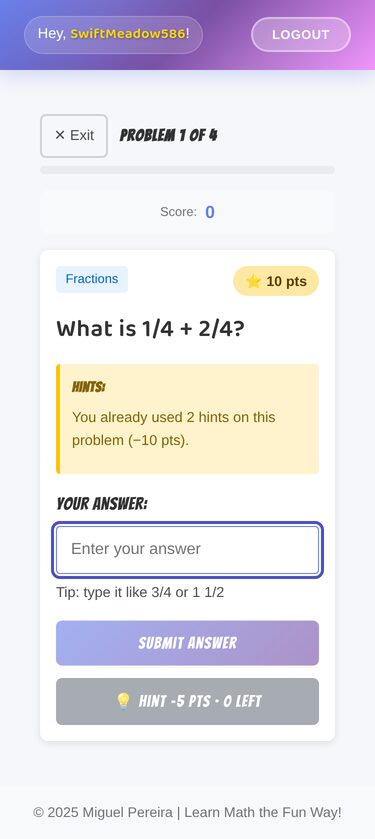
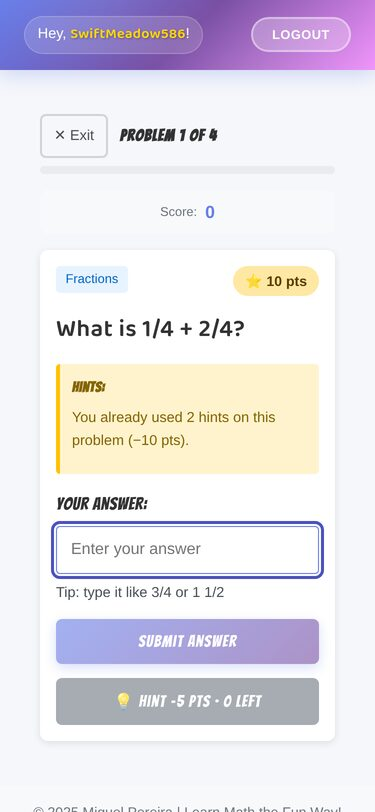
docs(game-ui): record Verify gate results and refreshed render evidence

diff --git a/docs/game-ui-improvements/handoff.md b/docs/game-ui-improvements/handoff.md
@@ -13,27 +13,27 @@ Branch `feat/game-ui-improvements`, Plane NINJA-14. Not deployed yet.
 
 ## Verification
 
-Backend `cd backend && npm test`: 97/97 (88 before). Frontend `cd frontend && npm test`: 76/76 (34 before), run 3 times with no flakes. `tsc --noEmit`, `vue-tsc --noEmit` and both production builds are clean. New tests were run red against the old code: grader 5 failing, HomeView 2/2 failing, style rules 2/5 failing.
+Backend `cd backend && npm test`: 99/99 (88 before). Frontend `cd frontend && npm test`: 77/77 (34 before), run 3 times with no flakes. `tsc --noEmit`, `vue-tsc --noEmit` and both production builds are clean. New tests were run red against the old code: grader 5 failing, HomeView 2/2 failing, style rules 2/5 failing.
 
-**Headless render** of the real app (Vite dev server, headless Chrome via `playwright-core@1.56.1`, at 375 px with touch and at 1280 px). Only the network was faked: Cognito tokens were seeded in localStorage and `/api` calls were answered by the harness. Result: **57/57 checks, 3 consecutive runs**. The harness is in `render-harness.mjs` and the screenshots are in `screenshots/`.
+**Headless render** of the real app (Vite dev server, headless Chrome via `playwright-core@1.56.1`, at 375 px with touch and at 1280 px). Only the network was faked: Cognito tokens were seeded in localStorage and `/api` calls were answered by the harness. Result: **65/65 checks, 3 consecutive runs**. The harness is in `render-harness.mjs` and the screenshots are in `screenshots/`.
 
 - [x] AC1: `GameView.test` "asks for the full keyboard"; render: `inputmode=text` on phone and desktop.
 - [x] AC2: `gameFeedback.test` formatTip; `GameView.test`. Render: the Fractions tip on problem 1, and the text tip on problem 4.
-- [x] AC3: `answerMatcher.test` "decorated numeric answers" (8 cases including rejections: `12 m`≠`12 cm`, `3`≠`3x`/`2pi`/`4 i`, `1,5`). `answerVerification.test` (ADR-6).
+- [x] AC3: `answerMatcher.test` "decorated numeric answers" (10 cases including rejections: `12 m`≠`12 cm`, `3`≠`3x`/`2pi`/`4 i`, `3`≠`3m`/`5h`/`2s`/`3g`, `1,5`). `answerVerification.test` (ADR-6).
 - [x] AC4, AC5: `GameView.test` "shows what the problem is worth…"; render: "⭐ 10 pts" and "💡 Hint −5 pts · 2 left".
 - [x] AC6: `GameView.test` "resumed problem"; render: a server resume with 2 hints shows the line and "0 left" (`phone-B2-resumed-hints.jpg`).
 - [x] AC7: `GameView.test` streak, praise and zero points; render: "Nailed it!", "🔥 2" in the header and "· 🔥 2 in a row" (`phone-C-correct-streak.jpg`).
 - [x] AC8: `ProblemExplanation.test` (loading, loaded, focus, retry, stale response, propagation) and `GameView.test` (echo plus Show me how). Render: echo, inline steps, and the error state with focus on Try again (`phone-D*.jpg`).
-- [x] AC9: `gameFeedback.test` and `GameView.test`; render: "Problem 1 of 4" while that problem's feedback is showing.
+- [x] AC9: `gameFeedback.test` and `GameView.test`; render: "Problem 1 of 4" while that problem's feedback is showing, with the progress bar measured at 25%.
 - [x] AC10:
   - `LeaveGameDialog.test` (6 tests, including Escape and the confirm fallback) and `GameView.test` (Exit and Keep playing, Leave with `replace`, no prompt for scorecard, login or reset).
   - Render:
     - Exit → the dialog is centred with Keep playing focused.
     - Escape stays in the game.
-    - **Browser Back opens the dialog.**
+    - **Browser Back opens the dialog**, and so does the header logo (desktop).
     - Leave → Home.
 - [x] AC11: `HomeView.test` (in-memory Continue without a fetch; a completed in-memory session falls back to the server) and `GameView.test` "continue after feedback". Render: Leave during feedback → Continue → "Problem 4 of 4".
-- [x] AC12: `GameView.test` "offers a way home". Not rendered, because the state can't be reached through the UI with a healthy fake API.
+- [x] AC12: `GameView.test` "offers a way home" and "shows no error while logging out". Not rendered, because the state can't be reached through the UI with a healthy fake API.
 - [x] AC13: `ProblemExplanation.test` "stale response" and "Try again". The scorecard now uses that component.
 - [x] AC14: `GameView.test` checks that the same always-mounted announcer carries the result, and that Enter on Show me how doesn't advance. Render: the announcer text for the hint and the correct answer; Enter on Show me how keeps the card.
 - [x] AC15: `styles.test.ts`; render: computed `solid 3px rgb(76, 81, 191)` on keyboard focus.
@@ -76,7 +76,14 @@ Backend `cd backend && npm test`: 97/97 (88 before). Frontend `cd frontend && np
 - Verify: the headless render found a real bug (the dialog pinned top-left by the global margin reset), fixed in `dc525fc`. Two harness artifacts were diagnosed rather than papered over:
   - The touch emulation was dropped after a full-page screenshot.
   - The 0.3 s `.btn` transition delays the focus ring colour.
-- Verify gate: see the PR (subagent review).
+- Verify gate: subagent, 1 pass, **1 blocker**, fixed in `fix(backend): read a letter stuck to a number as a variable`.
+  - The blocker: one-letter units `m g h s l` stripped algebra variables, so `3` passed for `3m`. One-letter units now need a space, with 2 new tests.
+  - Minors fixed:
+    - The phone screenshots showed the Enter hint (full-page captures drop touch emulation): phones now use viewport captures, with the touch rule asserted at capture time.
+    - The progress bar is now measured.
+    - The header logo is now clicked in the render.
+    - The load-failure message no longer flashes during logout.
+  - Minors accepted (below).
 - Launch: self review, 1 pass.
 
 ## Specialists consulted
@@ -89,6 +96,12 @@ Experience (Product Designer: two-round review and approval; Frontend: all state
 - `@vue/test-utils` pinned at 2.4.11 rather than the latest 2.5.1 (advisories, above). `jsdom` pinned at 30.1.3 rather than 31 (a week old).
 - `restartProblemClock` (new store action): returning to a problem no longer counts the time spent away.
 - See also "Build notes (deviations)" in `design.md`.
+
+## Accepted minors (Verify gate)
+- If a kid leaves during the **last** problem's feedback and the `/end` call then fails on Continue, the answered problem shows again. Resubmitting goes through the existing 409 resync to the scorecard, so they're not stuck. Untested.
+- `$5 cm` and `x = $5 cm` are accepted for `5`. That's harmless leniency.
+- A bare number is accepted for an answer with an area or volume unit (`12` = `12 cm²`). This follows the "strip" choice.
+- Double-submit and two tabs weren't attacked. The input is disabled while submitting (unchanged), and a second tab already hits the existing 409 resync.
 
 ## Follow-ups
 - Stop sending `correctAnswer` to the browser with the session (any kid can read the answers in devtools).
